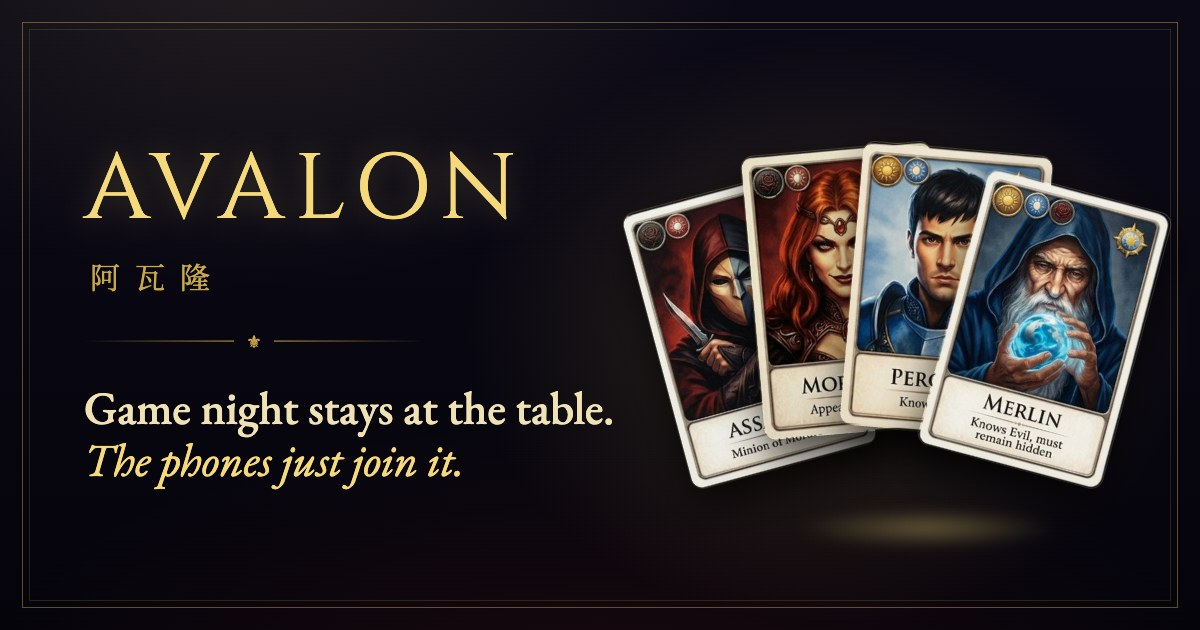
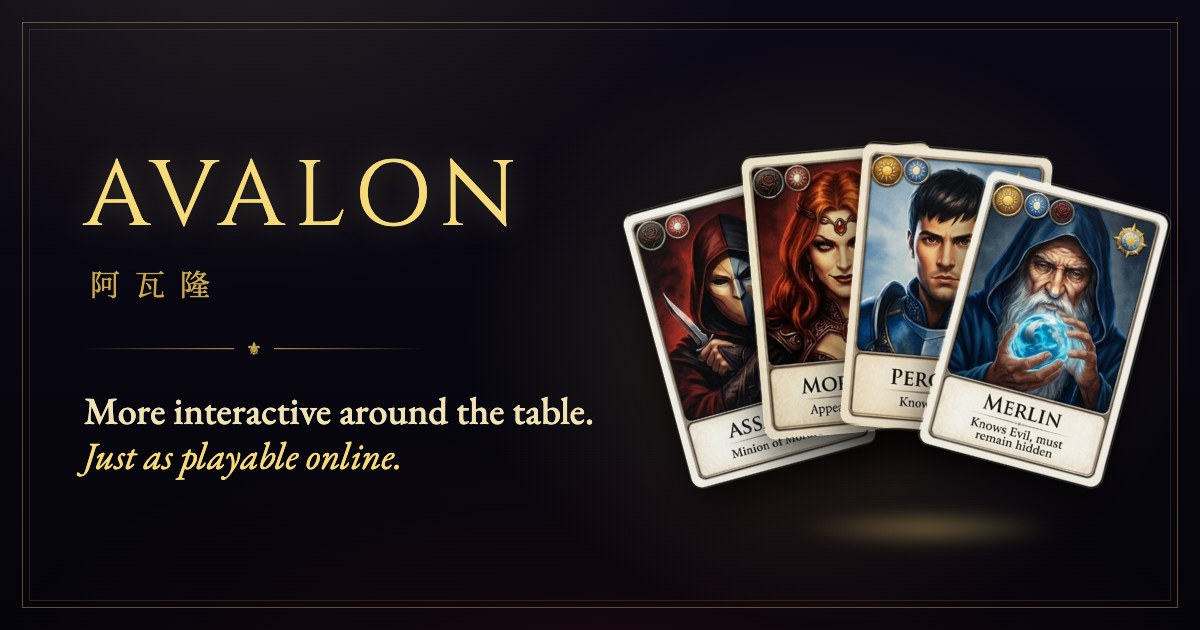
another one..

diff --git a/index.html b/index.html
@@ -8,12 +8,12 @@
     <!-- link previews (LinkedIn, iMessage, Slack): crawlers read these from the raw HTML -->
     <meta property="og:type" content="website" />
     <meta property="og:url" content="https://avalon-1.netlify.app/" />
-    <meta property="og:title" content="Avalon · game night stays at the table" />
-    <meta property="og:description" content="Secret roles dealt to every phone, a narrated night, and an iPad that keeps the whole table in sync. EN / 中文." />
+    <meta property="og:title" content="Avalon · more interactive around the table, just as playable online" />
+    <meta property="og:description" content="Play face to face, with phones that deal secret roles and narrate the night, or online when friends can't meet. EN / 中文." />
     <meta property="og:image" content="https://avalon-1.netlify.app/og.jpg" />
     <meta property="og:image:width" content="1200" />
     <meta property="og:image:height" content="630" />
-    <meta property="og:image:alt" content="Avalon: four role cards fanned beside the line 'Game night stays at the table. The phones just join it.'" />
+    <meta property="og:image:alt" content="Avalon: four role cards fanned beside the line 'More interactive around the table. Just as playable online.'" />
     <meta name="twitter:card" content="summary_large_image" />
     <link rel="preconnect" href="https://fonts.googleapis.com" />
     <link rel="preconnect" href="https://fonts.gstatic.com" crossorigin />
